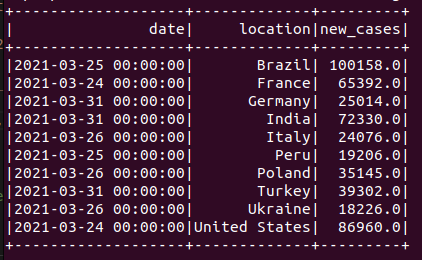
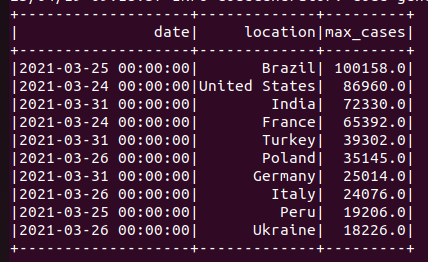
error correction

diff --git a/task_3.py b/task_3.py
@@ -6,13 +6,15 @@ spark = SparkSession.builder.appName("Simple Spark app").master("local[2]").getO
 
 df = spark.read.option('header', True).option('inferSchema', True).csv("/home/oxana/Documents/Spark/сoviddata.csv")
 
-data = df.select('location', col('new_cases').alias('new_cases_today'), 'date').where((col('date').between('2021-03-24', '2021-03-31'))&(col('location') == 'Russia'))
+data = df.select('location', col('new_cases').alias('new_cases_today'), 'date').\
+    where((col('date').between('2021-03-23', '2021-03-31'))&(col('location') == 'Russia'))
 
 w = Window().partitionBy('location').orderBy('date')
 
 win_today = data.withColumn('new_cases_yesterday',(lag('new_cases_today').over(w)))
 
-result = win_today.select('date', 'new_cases_today', 'new_cases_yesterday', (col('new_cases_today') - col('new_cases_yesterday')).alias('delta')).na.fill(value=0)
+result = win_today.select('date', 'new_cases_today', 'new_cases_yesterday', (col('new_cases_today') - col('new_cases_yesterday')).alias('delta')).\
+    na.fill(value=0).where(col('date').between('2021-03-23', '2021-03-31'))
 
 result.show()
 

diff --git a/task_2.py b/task_2.py
@@ -10,7 +10,8 @@ data = df.select(col('location'), 'new_cases', 'date').where((col('date').betwee
 
 max_value = data.groupBy('location').agg(max('new_cases').alias('max_cases')).sort(col('max_cases').desc()).limit(10)
 
-result = data.alias('a').join(max_value.alias('b'), col('a.new_cases') ==col('b.max_cases'),"inner").select('date', col('a.location'), 'new_cases')
+result = data.alias('a').join(max_value.alias('b'), col('a.new_cases') ==col('b.max_cases'),"inner").\
+    select('date', col('a.location'), 'max_cases').sort(col('max_cases').desc())
 
 result.show()
 
